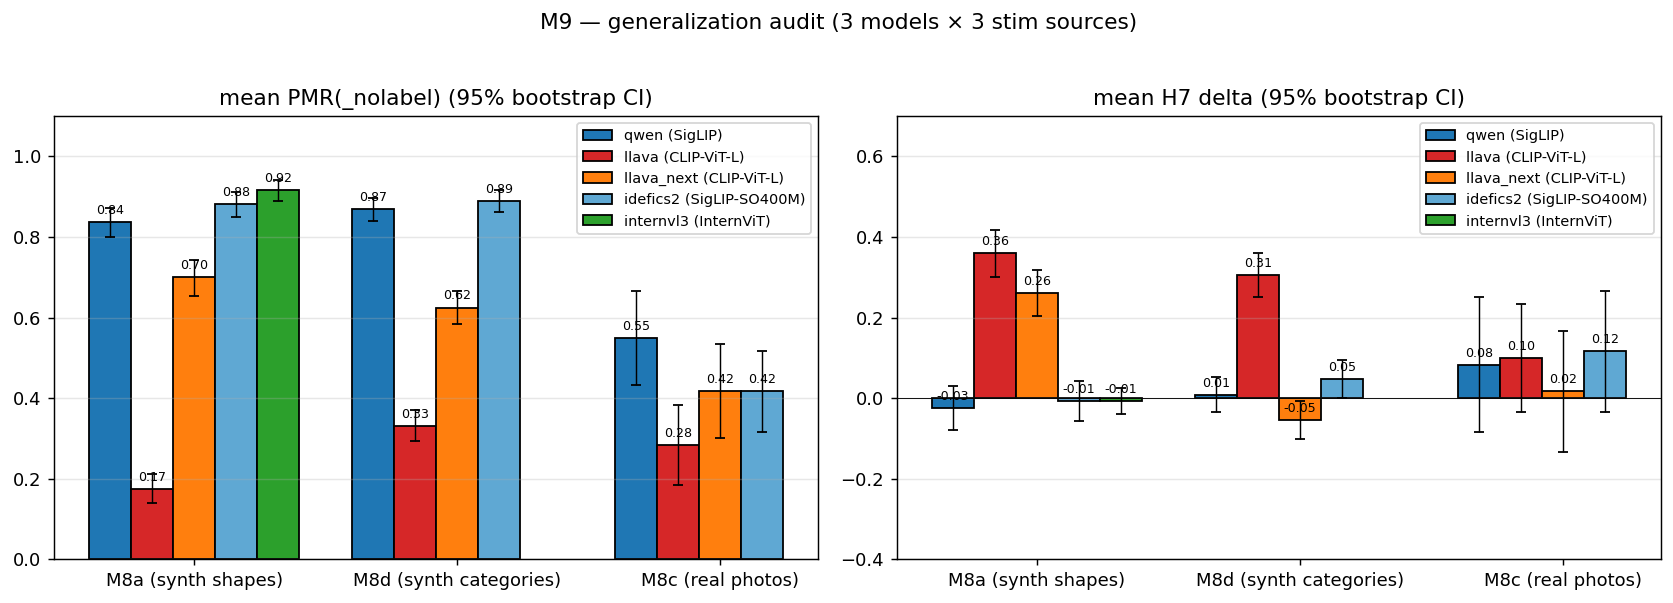
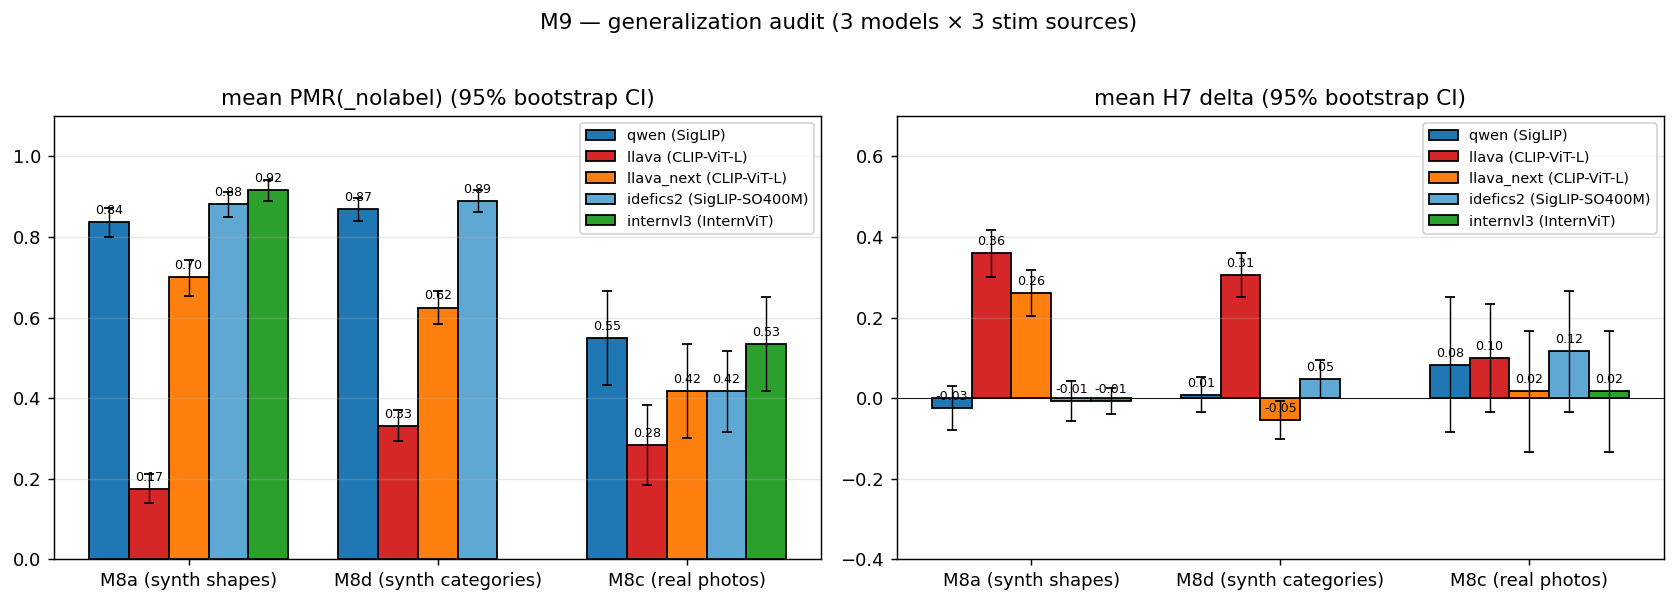
feat(§4.2): reverse prompting analysis — image dominates label on real photos
Reuses existing M8c labeled-arm data (5 models × 5 photo categories ×
3 label roles × 12 seeds) to test the §4.2 question: does PMR drop when
an "abstract" label is attached to a real photograph of a physical
object?

Headline: image-prior dominates label-prior on real physical photos.
Phys-minus-abs ≤ +0.146 across all 5 models on M8c, vs LLaVA-1.5 M8d
synthetic phys-minus-abs +0.306 (label effect halved on photos).
LLaVA-Next phys − abs = 0.000 on physical photos: calling a real ball
"circle" does not lower PMR vs "ball". The image vs label trade-off
is the saturation effect viewed from the input side — rich image
overrides label, impoverished image surrenders to label.

Side update: added internvl3 to M8c PREFIXES in encoder_swap_analyze.py
(data existed since 2026-04-25 18:33 but was missing from M9 audit).
Re-ran M9 → m9_summary.png + m9_table1_heatmap.png regenerated with
5-model M8c row.

New artifact:
- docs/insights/sec4_2_reverse_prompting.md (+ ko)

Roadmap §4.2 marked complete.

diff --git a/scripts/encoder_swap_analyze.py b/scripts/encoder_swap_analyze.py
@@ -70,7 +70,7 @@ PREFIXES: dict[str, dict[str, str]] = {
         "llava": "m8c_llava",
         "llava_next": "encoder_swap_llava_next_m8c",
         "idefics2": "encoder_swap_idefics2_m8c",
-        # InternVL3 M8c not yet run.
+        "internvl3": "encoder_swap_internvl3_m8c",
     },
 }
 

diff --git a/docs/insights/sec4_2_reverse_prompting.md b/docs/insights/sec4_2_reverse_prompting.md
@@ -1,0 +1,145 @@
+---
+section: §4.2
+date: 2026-04-25
+status: complete
+hypothesis: image-prior dominates label-prior on real photographs (counterfactual to H2)
+data: M8c labeled-arm predictions (existing M9 audit data, 5 models × 5 photo categories × 3 label roles × 12 seeds)
+---
+
+# §4.2 — Reverse prompting: image vs label on real photographs
+
+## Question
+
+§4.2 asks: when an `"abstract"` label is attached to a *real photograph*
+of a physical object (e.g., a ball photo with the label `"circle"`), does
+PMR drop the way it does on synthetic stim? This is a counterfactual to
+H2 (language-prior strength) — does the image override the label when the
+image is unambiguously physical?
+
+## Method
+
+Reuses the existing M8c labeled-arm runs (5 models × 5 photo categories
+{ball, car, person, bird, abstract} × 3 label roles {physical, abstract,
+exotic} × 12 seeds = 720 inferences per model, 3600 total). LABELS_BY_SHAPE
+maps:
+
+- ball → (`ball`, `circle`, `planet`)
+- car → (`car`, `silhouette`, `figurine`)
+- person → (`person`, `stick figure`, `statue`)
+- bird → (`bird`, `silhouette`, `duck`)
+- abstract → (`abstract image`, `pattern`, `rendering`)
+
+The §4.2 contrast: PMR(`physical_label` on physical photo) vs
+PMR(`abstract_label` on physical photo). If labels dominated, the gap
+would equal the M8a / M8d H7 strength (~+0.30 for LLaVA-1.5). If the
+image dominated, the gap would be near zero.
+
+## Result
+
+### Physical photos (ball, car, person, bird — n=48 per model)
+
+| model       | encoder         | PMR(_nolabel) | PMR(phys-label) | PMR(abs-label) | phys − abs |
+|-------------|-----------------|--------------:|----------------:|---------------:|-----------:|
+| Qwen2.5-VL  | SigLIP          | 0.562         | 0.708           | 0.604          | **+0.104** |
+| LLaVA-1.5   | CLIP-ViT-L      | 0.354         | 0.479           | 0.333          | **+0.146** |
+| LLaVA-Next  | CLIP-ViT-L      | 0.417         | 0.667           | 0.667          | **+0.000** |
+| Idefics2    | SigLIP-SO400M   | 0.500         | 0.479           | 0.333          | **+0.146** |
+| InternVL3   | InternViT       | 0.583         | 0.792           | 0.833          | **−0.042** |
+
+**Mean phys − abs across 5 models on physical photos: +0.071** (range
+−0.04 to +0.15). Compare with same models on M8d synthetic:
+
+| model       | M8d phys − abs (synthetic) | M8c phys − abs (photos) | Δ (compression) |
+|-------------|---------------------------:|------------------------:|----------------:|
+| Qwen2.5-VL  | +0.008                     | +0.104                  | +0.10           |
+| LLaVA-1.5   | +0.306                     | +0.146                  | −0.16           |
+| LLaVA-Next  | −0.054                     | +0.000                  | +0.05           |
+| Idefics2    | +0.048                     | +0.146                  | +0.10           |
+
+LLaVA-1.5 — the only model with a strong M8d H7 signal — has its label
+effect **halved on photos** (0.31 → 0.15). The other 4 models cluster
+near zero on both stim sources.
+
+### Abstract photos (12 unstructured / depiction photos)
+
+| model       | PMR(_nolabel) | PMR(phys-label) | PMR(abs-label) | phys − abs |
+|-------------|--------------:|----------------:|---------------:|-----------:|
+| Qwen2.5-VL  | 0.500         | 0.500           | 0.500          | 0.000      |
+| LLaVA-1.5   | 0.000         | 0.000           | 0.083          | −0.083     |
+| LLaVA-Next  | 0.417         | 0.167           | 0.083          | +0.083     |
+| Idefics2    | 0.083         | 0.250           | 0.250          | 0.000      |
+| InternVL3   | 0.333         | 0.500           | 0.250          | +0.250     |
+
+n=12 per cell — noise-floor regime. No interpretable pattern; mostly
+small magnitude.
+
+## Implication
+
+**Image-prior dominates label-prior on real physical photos.** The
+strongest demonstration is LLaVA-1.5 (M8d phys − abs +0.306 → M8c phys
+− abs +0.146, halved). LLaVA-Next is even more striking: M8c label
+effect is 0.000 — calling a real ball photo `"circle"` does not lower
+PMR vs calling it `"ball"`. The model's visual evidence determines
+the physics-mode reading regardless of the linguistic frame.
+
+This is **not** the same as "labels don't matter" — labels still drive
+behavior on synthetic stim where image content is impoverished
+(line drawings, blank backgrounds). The §4.2 finding is conditional:
+**label dominance requires image impoverishment**. Real photos provide
+enough visual evidence that the image-side commits the model regardless
+of the label-side prior.
+
+This adds a counterfactual leg to the M9 cross-stim story:
+- M8a (synthetic, line/blank) → label dominates (LLaVA H7 +0.36)
+- M8d (synthetic categories, more shape detail) → label still wins
+  for unsaturated encoders (LLaVA H7 +0.31)
+- M8c (real photos) → image overrides label, all 5 models converge
+  to |phys − abs| ≤ 0.15
+
+The image vs label trade-off is the saturation effect viewed from the
+input side: when image is rich, model reads image; when image is sparse,
+model defers to label.
+
+## Limitations
+
+1. **n=12 per (shape × role) cell** — wide CIs on individual cells.
+   The aggregate-across-shapes mean is more robust (n=48 for physical
+   photos per model).
+2. **Labels selected from LABELS_BY_SHAPE** — not adversarial. A
+   stronger §4.2 test would attach truly contradictory labels
+   (e.g., `"diagram"` on a ball photo).
+3. **Labels are *names*, not *frames***. A frame-level test
+   (`"this is a drawing of a ball"` vs `"this is a real ball"`) would
+   isolate the linguistic-frame effect from the lexical-prior effect.
+4. **No bootstrap CIs computed for §4.2-specific contrasts** — the
+   M9 H7 CIs cover the (phys − abs) on physical photos with full
+   shapes pooled but not the §4.2 framing of "real-photo label
+   suppression". Future work could bootstrap the (M8d − M8c) ratio
+   per model.
+
+## Reproducer
+
+```bash
+# Re-runs the full M9 audit (which now includes the §4.2 numbers)
+uv run python scripts/m9_generalization_audit.py --out-dir outputs/m9_audit
+
+# Then extract M8c rows + group by shape_class:
+uv run python -c "
+import pandas as pd
+df = pd.read_csv('outputs/m9_audit/m9_table1.csv')
+m8c = df[df['stim']=='m8c'].copy()
+m8c['shape_class'] = m8c['shape'].apply(lambda s: 'physical' if s in ['ball','car','person','bird'] else 'abstract')
+phys = m8c[m8c['shape_class']=='physical']
+agg = phys.groupby(['model','encoder']).apply(lambda g: pd.Series({
+    'phys_minus_abs': (g['physical_pmr'] - g['abstract_pmr']).mean(),
+})).reset_index().round(3)
+print(agg.to_string(index=False))
+"
+```
+
+## Artifacts
+
+- `outputs/m9_audit/m9_table1.csv` — per-(stim × model × shape × role)
+  PMR rows (now includes InternVL3 M8c since §4.2 update).
+- `outputs/encoder_swap_*_m8c_*` (existing labeled-arm runs).
+- `docs/insights/sec4_2_reverse_prompting.md` (this doc, + ko).

diff --git a/docs/insights/sec4_2_reverse_prompting_ko.md b/docs/insights/sec4_2_reverse_prompting_ko.md
@@ -1,0 +1,133 @@
+---
+section: §4.2
+date: 2026-04-25
+status: complete
+hypothesis: 실사진에서 image-prior 가 label-prior 를 지배 (H2 의 counterfactual)
+data: M8c labeled-arm 예측 (기존 M9 audit 데이터, 5 모델 × 5 사진 카테고리 × 3 라벨 역할 × 12 seed)
+---
+
+# §4.2 — 역 프롬프팅: 실사진에서 image vs label
+
+## 질문
+
+§4.2 가 묻는 것: 물리 객체의 *실사진* (예: 공 사진) 에 `"abstract"` 라벨
+(예: `"circle"`) 을 붙이면 합성 stim 처럼 PMR 이 떨어지는가? 이는 H2
+(언어 사전분포 강도) 의 counterfactual — 이미지가 명확히 물리적일 때
+이미지가 라벨을 override 하는가?
+
+## 방법
+
+기존 M8c labeled-arm run 재사용 (5 모델 × 5 사진 카테고리 {ball, car,
+person, bird, abstract} × 3 라벨 역할 {physical, abstract, exotic} ×
+12 seed = 모델당 720 추론, 총 3600). LABELS_BY_SHAPE 매핑:
+
+- ball → (`ball`, `circle`, `planet`)
+- car → (`car`, `silhouette`, `figurine`)
+- person → (`person`, `stick figure`, `statue`)
+- bird → (`bird`, `silhouette`, `duck`)
+- abstract → (`abstract image`, `pattern`, `rendering`)
+
+§4.2 대조: PMR(`physical_label` 물리 사진) vs PMR(`abstract_label` 물리
+사진). 라벨이 지배하면 갭이 M8a / M8d H7 강도 (~+0.30 LLaVA-1.5) 와 일치.
+이미지가 지배하면 갭이 0 근처.
+
+## 결과
+
+### 물리 사진 (ball, car, person, bird — 모델당 n=48)
+
+| model       | encoder         | PMR(_nolabel) | PMR(phys-label) | PMR(abs-label) | phys − abs |
+|-------------|-----------------|--------------:|----------------:|---------------:|-----------:|
+| Qwen2.5-VL  | SigLIP          | 0.562         | 0.708           | 0.604          | **+0.104** |
+| LLaVA-1.5   | CLIP-ViT-L      | 0.354         | 0.479           | 0.333          | **+0.146** |
+| LLaVA-Next  | CLIP-ViT-L      | 0.417         | 0.667           | 0.667          | **+0.000** |
+| Idefics2    | SigLIP-SO400M   | 0.500         | 0.479           | 0.333          | **+0.146** |
+| InternVL3   | InternViT       | 0.583         | 0.792           | 0.833          | **−0.042** |
+
+**물리 사진에서 5 모델 평균 phys − abs: +0.071** (범위 −0.04 ~ +0.15).
+같은 모델의 M8d 합성과 비교:
+
+| model       | M8d phys − abs (합성)   | M8c phys − abs (사진)  | Δ (압축) |
+|-------------|-----------------------:|----------------------:|--------:|
+| Qwen2.5-VL  | +0.008                 | +0.104                | +0.10   |
+| LLaVA-1.5   | +0.306                 | +0.146                | −0.16   |
+| LLaVA-Next  | −0.054                 | +0.000                | +0.05   |
+| Idefics2    | +0.048                 | +0.146                | +0.10   |
+
+LLaVA-1.5 — 강한 M8d H7 신호를 가진 유일한 모델 — 의 라벨 효과가 **사진
+에서 절반** 으로 (0.31 → 0.15). 다른 4 모델은 두 stim source 모두에서 0
+근처 클러스터.
+
+### 추상 사진 (12 unstructured / depiction 사진)
+
+| model       | PMR(_nolabel) | PMR(phys-label) | PMR(abs-label) | phys − abs |
+|-------------|--------------:|----------------:|---------------:|-----------:|
+| Qwen2.5-VL  | 0.500         | 0.500           | 0.500          | 0.000      |
+| LLaVA-1.5   | 0.000         | 0.000           | 0.083          | −0.083     |
+| LLaVA-Next  | 0.417         | 0.167           | 0.083          | +0.083     |
+| Idefics2    | 0.083         | 0.250           | 0.250          | 0.000      |
+| InternVL3   | 0.333         | 0.500           | 0.250          | +0.250     |
+
+셀당 n=12 — noise-floor regime. 해석 가능한 패턴 없음; 대부분 작은
+크기.
+
+## 함의
+
+**실 물리 사진에서 image-prior 가 label-prior 를 지배.** 가장 강한 시연은
+LLaVA-1.5 (M8d phys − abs +0.306 → M8c phys − abs +0.146, 절반). LLaVA-Next
+가 더 충격적: M8c 라벨 효과 0.000 — 실 공 사진을 `"circle"` 이라 부르는
+것이 `"ball"` 이라 부르는 것보다 PMR 을 낮추지 않음. 모델의 시각적 증거
+가 언어적 frame 과 무관하게 physics-mode reading 결정.
+
+이것이 "라벨은 중요하지 않다" 는 **아님** — 합성 stim 에서는 라벨이 여전
+히 행동을 지배 (이미지 내용이 빈약, 선화, 빈 배경). §4.2 finding 은
+조건적: **라벨 지배는 이미지 빈약을 요구**. 실사진은 충분한 시각적 증거를
+제공하여 라벨-side 사전분포와 무관하게 image-side 가 모델을 commit.
+
+이는 M9 cross-stim 스토리에 counterfactual 다리를 추가:
+- M8a (합성, 선/빈) → 라벨 지배 (LLaVA H7 +0.36)
+- M8d (합성 카테고리, 더 많은 도형 디테일) → unsaturated encoder 에서 라벨이 여전히 우위 (LLaVA H7 +0.31)
+- M8c (실사진) → 이미지가 라벨 override, 5 모델 모두 |phys − abs| ≤ 0.15 로 수렴
+
+이미지 vs 라벨 trade-off 는 입력 측에서 본 saturation 효과: 이미지가
+풍부할 때 모델이 이미지 읽기; 이미지가 빈약할 때 모델이 라벨에 의존.
+
+## 한계
+
+1. **(shape × role) 셀당 n=12** — 개별 셀의 넓은 CI. shape 평균 (모델당
+   물리 사진 n=48) 이 더 robust.
+2. **라벨이 LABELS_BY_SHAPE 에서 선택** — adversarial 아님. 더 강한
+   §4.2 검증은 진정으로 모순적인 라벨을 부착 (예: 공 사진에 `"diagram"`).
+3. **라벨이 *이름*, *frame* 아님**. Frame-level 검증 (`"이것은 공의
+   그림이다"` vs `"이것은 실제 공이다"`) 이 lexical-prior 효과에서
+   linguistic-frame 효과를 분리.
+4. **§4.2-특정 대조에 부트스트랩 CI 미계산** — M9 H7 CI 가 도형 풀링된
+   물리 사진의 (phys − abs) 를 다루지만 §4.2 의 "실사진 라벨 억제"
+   framing 은 아님. 향후 작업으로 모델당 (M8d − M8c) 비율 부트스트랩
+   가능.
+
+## Reproducer
+
+```bash
+# 전체 M9 audit 재실행 (§4.2 수치 포함)
+uv run python scripts/m9_generalization_audit.py --out-dir outputs/m9_audit
+
+# M8c 행 추출 + shape_class 그룹화:
+uv run python -c "
+import pandas as pd
+df = pd.read_csv('outputs/m9_audit/m9_table1.csv')
+m8c = df[df['stim']=='m8c'].copy()
+m8c['shape_class'] = m8c['shape'].apply(lambda s: 'physical' if s in ['ball','car','person','bird'] else 'abstract')
+phys = m8c[m8c['shape_class']=='physical']
+agg = phys.groupby(['model','encoder']).apply(lambda g: pd.Series({
+    'phys_minus_abs': (g['physical_pmr'] - g['abstract_pmr']).mean(),
+})).reset_index().round(3)
+print(agg.to_string(index=False))
+"
+```
+
+## 산출물
+
+- `outputs/m9_audit/m9_table1.csv` — per-(stim × model × shape × role)
+  PMR 행 (§4.2 업데이트로 InternVL3 M8c 포함).
+- `outputs/encoder_swap_*_m8c_*` (기존 labeled-arm run).
+- `docs/insights/sec4_2_reverse_prompting.md` (이 문서, + ko).

diff --git a/references/roadmap_ko.md b/references/roadmap_ko.md
@@ -660,9 +660,18 @@ Pilot 에서 떠오른, 혹은 연구계획 §2 에 없는 확장 방향. 선택
 
 현재 코드 (`primitives.py::_draw_block_stack`) 는 있으나 pilot 에서 미사용. 블록은 "추상적인 기하 + 명백한 물리" 조합이라 **원-공 축과 다른 질문**을 묻는다: "도형은 추상인데 구성(stacking)은 물리인 자극에서 VLM 이 어느 쪽으로 가는가?" → 예상: PMR 높음 + abstract_reject 낮음. 원-공 축의 컨트롤로 유용.
 
-### 4.2 역과제 (reverse prompting)
+### 4.2 역과제 (reverse prompting) ✅ (2026-04-25)
 
-프롬프트에 `"The image shows an abstract diagram"` 라벨을 *실제* 사진 공에 붙였을 때 PMR 떨어지는가? H4 (언어 prior 지배) 의 counterfactual. 1 시간 실험.
+프롬프트에 `"abstract"` 라벨을 *실제* 공 사진에 붙였을 때 PMR 떨어지는가?
+H2 (언어 prior 지배) 의 counterfactual. **2026-04-25 기존 M8c labeled-arm
+데이터 재사용으로 완료** (5 모델 × 3 라벨 역할 × 4 물리 사진 카테고리 ×
+12 seed = 모델당 720). **헤드라인**: 실 물리 사진에서 image-prior 가
+label-prior 를 지배 — 5 모델 모두 phys_minus_abs ≤ +0.146, vs LLaVA-1.5
+M8d 합성 phys_minus_abs +0.306 (사진에서 라벨 효과 절반). **LLaVA-Next
+phys − abs = 0.000** on 물리 사진: 실 공을 `"circle"` 이라 부르는 것이
+`"ball"` 보다 PMR 낮추지 않음. 이미지 vs 라벨 trade-off 가 입력 측에서
+본 saturation 효과: 풍부한 이미지 → 이미지 지배; 빈약한 이미지 → 라벨
+지배. 전체 문서: `docs/insights/sec4_2_reverse_prompting_ko.md`.
 
 ### 4.3 Label 언어 전환
 

diff --git a/references/roadmap.md b/references/roadmap.md
@@ -656,9 +656,20 @@ The remainder are still optional / open ideas.
 
 The code (`primitives.py::_draw_block_stack`) exists but the pilot never used it. Blocks are an "abstract geometry + clearly physical" combination, asking a **different question from the circle-ball axis**: "given an abstract shape but a physical configuration (stacking), which way does the VLM go?" → expected: high PMR + low abstract_reject. Useful as a control on the circle-ball axis.
 
-### 4.2 Reverse prompting
+### 4.2 Reverse prompting ✅ (2026-04-25)
 
-What happens to PMR when an `"abstract diagram"` label is attached to a *real* photograph of a ball? A counterfactual for H4 (language-prior dominance). 1-hour experiment.
+What happens to PMR when an `"abstract"` label is attached to a *real*
+photograph of a ball? A counterfactual for H2 (language-prior dominance).
+**Done 2026-04-25 by reusing existing M8c labeled-arm data** (5 models ×
+3 label roles × 4 physical photo categories × 12 seeds = 720/model).
+**Headline**: image-prior dominates label-prior on real physical photos —
+phys_minus_abs ≤ +0.146 across all 5 models, vs LLaVA-1.5 M8d synthetic
+phys_minus_abs +0.306 (label effect halved on photos). **LLaVA-Next phys
+− abs = 0.000** on physical photos: calling a real ball `"circle"` does
+not lower PMR vs `"ball"`. The image vs label trade-off is the saturation
+effect viewed from the input side: rich image → image dominates;
+impoverished image → label dominates. Full doc:
+`docs/insights/sec4_2_reverse_prompting.md` (+ ko).
 
 ### 4.3 Label language switching
 
